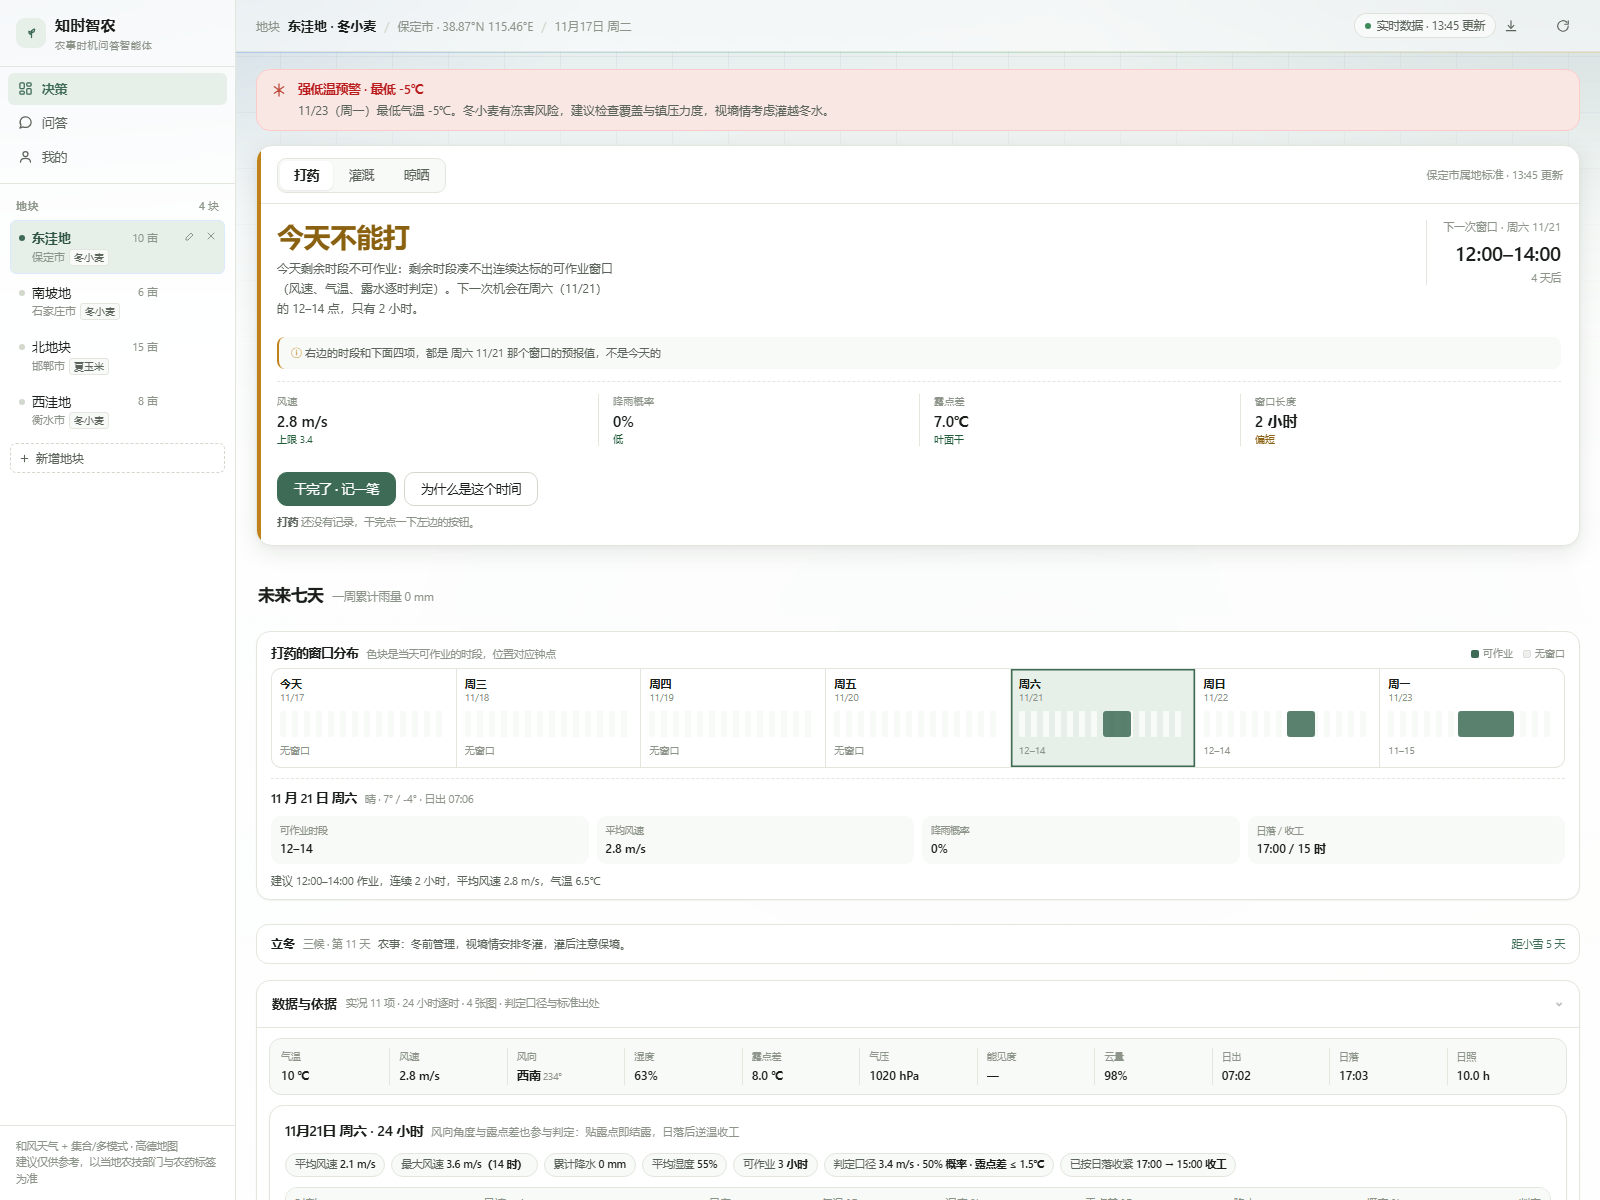
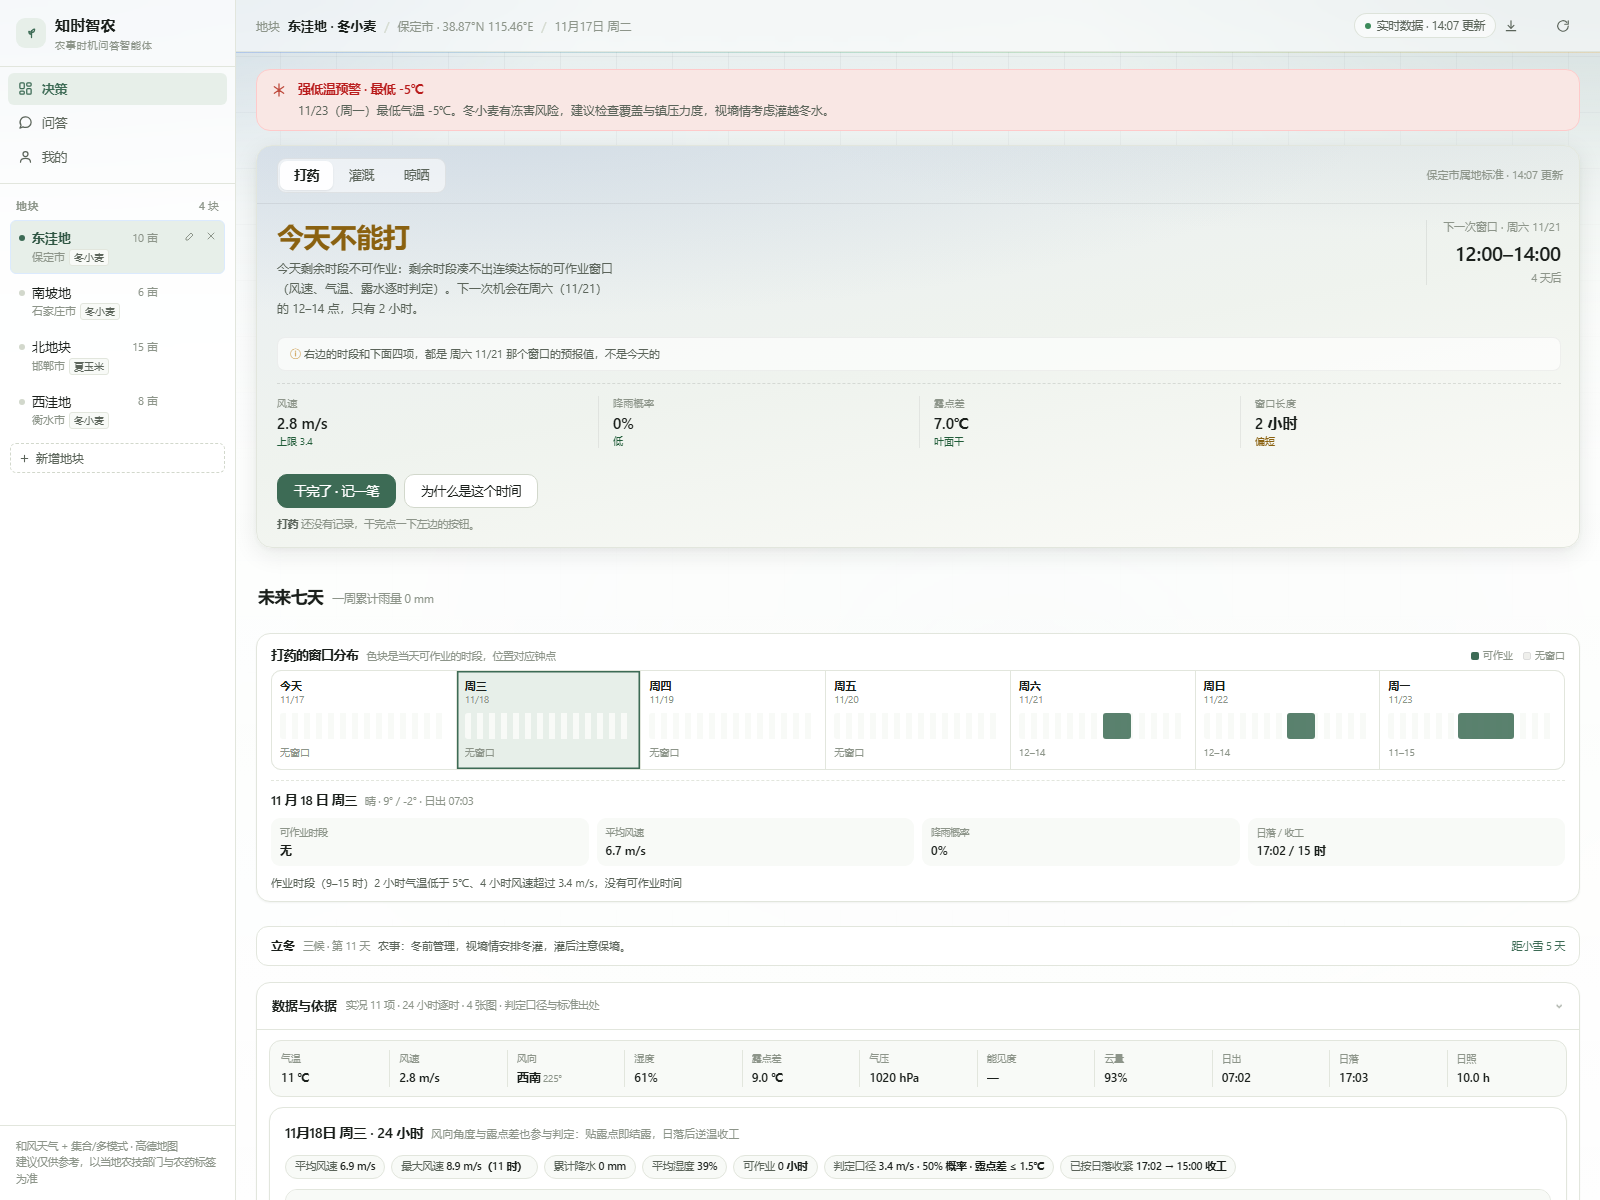
决策卡回归天气主题背景：晴/阴/雨/雪/雾/雷/风/夜各一套渐变，去掉左侧状态色条与模板感白卡

diff --git a/site/index.html b/site/index.html
@@ -2038,23 +2038,55 @@ body.wx-night .bg-veil{background:linear-gradient(180deg,
 .cbox{padding:14px 15px}
 
 /* ---- L1 决策卡 ---- */
+/* 决策卡：背景随天气变（与页面 bg-blobs 同一套色相语言），
+   结论状态只靠结论文字与指标判断色表达，不再用「左侧一根色条」的模板样式 */
 .decision{
-  position:relative;background:var(--surface-solid);border:1px solid var(--border);
+  position:relative;border:1px solid var(--border);
   border-radius:16px;box-shadow:var(--shadow-md);padding:0 0 14px;overflow:hidden;
+  background:linear-gradient(170deg,#e7edf2 0%,#f0f4ee 52%,#fcfcf9 100%);
 }
-.decision:before{content:"";position:absolute;left:0;top:0;bottom:0;width:4px;background:var(--brand)}
-.decision.st-warn:before{background:var(--warn)}
-.decision.st-bad:before{background:var(--danger)}
+.decision.wx-clear{background:
+  radial-gradient(120% 95% at 14% -12%, rgba(86,150,220,.30), transparent 56%),
+  radial-gradient(85% 65% at 88% -14%, rgba(245,190,110,.22), transparent 55%),
+  linear-gradient(170deg,#e9f2f9 0%,#f4f8f1 52%,#fefbf1 100%)}
+.decision.wx-cloud{background:
+  radial-gradient(120% 95% at 16% -12%, rgba(120,150,178,.24), transparent 58%),
+  radial-gradient(85% 65% at 84% -14%, rgba(150,170,180,.18), transparent 55%),
+  linear-gradient(170deg,#e9eef3 0%,#eff3ee 52%,#fbfbf7 100%)}
+.decision.wx-rain{background:
+  radial-gradient(120% 95% at 14% -12%, rgba(70,110,140,.26), transparent 58%),
+  radial-gradient(85% 65% at 86% -14%, rgba(96,128,140,.20), transparent 55%),
+  linear-gradient(170deg,#e4ecEE 0%,#ebf1ec 52%,#f8faf4 100%)}
+.decision.wx-snow{background:
+  radial-gradient(120% 95% at 12% -12%, rgba(160,190,220,.26), transparent 56%),
+  radial-gradient(85% 65% at 88% -14%, rgba(185,205,220,.20), transparent 55%),
+  linear-gradient(170deg,#edf3f8 0%,#f2f6f2 52%,#fbfaf5 100%)}
+.decision.wx-fog{background:
+  radial-gradient(120% 95% at 20% -12%, rgba(160,168,160,.22), transparent 58%),
+  radial-gradient(85% 65% at 80% -14%, rgba(175,180,170,.18), transparent 55%),
+  linear-gradient(170deg,#edefeb 0%,#f2f4ef 52%,#fafaf5 100%)}
+.decision.wx-storm{background:
+  radial-gradient(120% 95% at 16% -12%, rgba(78,92,130,.24), transparent 58%),
+  radial-gradient(85% 65% at 84% -14%, rgba(110,96,140,.18), transparent 55%),
+  linear-gradient(170deg,#e5e9f0 0%,#eceeed 52%,#f6f5f0 100%)}
+.decision.wx-wind{background:
+  radial-gradient(120% 95% at 14% -12%, rgba(64,145,120,.24), transparent 58%),
+  radial-gradient(85% 65% at 86% -14%, rgba(120,170,150,.18), transparent 55%),
+  linear-gradient(170deg,#e6f1ea 0%,#eef4ee 52%,#f9fbf6 100%)}
+.decision.wx-night{background:
+  radial-gradient(120% 95% at 14% -12%, rgba(60,84,120,.22), transparent 58%),
+  radial-gradient(85% 65% at 86% -14%, rgba(80,96,120,.16), transparent 55%),
+  linear-gradient(170deg,#e5eaf0 0%,#ebeeeb 52%,#f6f5f1 100%)}
 
 .d-head{display:flex;align-items:center;gap:10px;padding:12px 16px 10px 20px;
-  border-bottom:1px solid var(--border);flex-wrap:wrap}
-.d-tabs{display:flex;gap:2px;background:var(--surface-2);border:1px solid var(--border);
+  border-bottom:1px solid rgba(26,31,27,.07);flex-wrap:wrap}
+.d-tabs{display:flex;gap:2px;background:rgba(255,255,255,.55);border:1px solid rgba(26,31,27,.08);
   border-radius:9px;padding:2px}
 .d-tabs button{
   border:0;background:transparent;font:inherit;font-size:12.5px;color:var(--text-2);
   padding:5px 14px;border-radius:7px;cursor:pointer;transition:background .16s,color .16s;
 }
-.d-tabs button.on{background:var(--surface-solid);color:var(--text);font-weight:600;
+.d-tabs button.on{background:rgba(255,255,255,.92);color:var(--text);font-weight:600;
   box-shadow:0 1px 2px rgba(26,31,27,.08)}
 .d-meta{margin-left:auto;font-size:11px;color:var(--text-3);white-space:nowrap}
 
@@ -2066,7 +2098,7 @@ body.wx-night .bg-veil{background:linear-gradient(180deg,
 .decision.st-bad .d-word{color:#8C3025}
 .d-why{margin-top:6px;font-size:12px;line-height:1.65;color:var(--text-2);max-width:52ch}
 
-.d-when{flex:none;text-align:right;padding-left:16px;border-left:1px solid var(--border);min-width:132px}
+.d-when{flex:none;text-align:right;padding-left:16px;border-left:1px solid rgba(26,31,27,.08);min-width:132px}
 .d-day{display:block;font-size:10.5px;color:var(--text-3);letter-spacing:.04em}
 .d-time{display:block;font-size:20px;font-weight:600;color:var(--text);
   font-variant-numeric:tabular-nums;letter-spacing:-.01em;margin-top:2px}
@@ -2075,13 +2107,13 @@ body.wx-night .bg-veil{background:linear-gradient(180deg,
 /* 「今天不能打」时，下面四项数值属于未来窗口；这条说明必须看得见，
    否则用户会把未来预报当成今天的实况 */
 .d-from{margin:12px 18px 0 20px;padding:8px 12px;border-radius:8px;
-  background:var(--surface-2);border-left:2px solid var(--warn);
+  background:rgba(255,255,255,.62);border:1px solid rgba(26,31,27,.06);
   font-size:11px;color:var(--text-2);line-height:1.5}
 .d-from:before{content:"ⓘ ";color:var(--warn)}
 @media (max-width:640px){.d-from{margin:10px 14px 0 16px}}
 .d-metrics{display:grid;grid-template-columns:repeat(4,minmax(0,1fr));gap:0;
-  margin:12px 18px 0 20px;padding:12px 0;border-top:1px dashed var(--border)}
-.d-metric{padding:0 14px;border-left:1px solid var(--border);min-width:0}
+  margin:12px 18px 0 20px;padding:12px 0;border-top:1px dashed rgba(26,31,27,.12)}
+.d-metric{padding:0 14px;border-left:1px solid rgba(26,31,27,.07);min-width:0}
 .d-metric:first-child{padding-left:0;border-left:0}
 .d-metric span{display:block;font-size:10px;color:var(--text-3);letter-spacing:.03em;white-space:nowrap}
 .d-metric b{display:block;font-size:15px;font-weight:600;color:var(--text);margin-top:3px;

diff --git a/web/index.html b/web/index.html
@@ -2038,23 +2038,55 @@ body.wx-night .bg-veil{background:linear-gradient(180deg,
 .cbox{padding:14px 15px}
 
 /* ---- L1 决策卡 ---- */
+/* 决策卡：背景随天气变（与页面 bg-blobs 同一套色相语言），
+   结论状态只靠结论文字与指标判断色表达，不再用「左侧一根色条」的模板样式 */
 .decision{
-  position:relative;background:var(--surface-solid);border:1px solid var(--border);
+  position:relative;border:1px solid var(--border);
   border-radius:16px;box-shadow:var(--shadow-md);padding:0 0 14px;overflow:hidden;
+  background:linear-gradient(170deg,#e7edf2 0%,#f0f4ee 52%,#fcfcf9 100%);
 }
-.decision:before{content:"";position:absolute;left:0;top:0;bottom:0;width:4px;background:var(--brand)}
-.decision.st-warn:before{background:var(--warn)}
-.decision.st-bad:before{background:var(--danger)}
+.decision.wx-clear{background:
+  radial-gradient(120% 95% at 14% -12%, rgba(86,150,220,.30), transparent 56%),
+  radial-gradient(85% 65% at 88% -14%, rgba(245,190,110,.22), transparent 55%),
+  linear-gradient(170deg,#e9f2f9 0%,#f4f8f1 52%,#fefbf1 100%)}
+.decision.wx-cloud{background:
+  radial-gradient(120% 95% at 16% -12%, rgba(120,150,178,.24), transparent 58%),
+  radial-gradient(85% 65% at 84% -14%, rgba(150,170,180,.18), transparent 55%),
+  linear-gradient(170deg,#e9eef3 0%,#eff3ee 52%,#fbfbf7 100%)}
+.decision.wx-rain{background:
+  radial-gradient(120% 95% at 14% -12%, rgba(70,110,140,.26), transparent 58%),
+  radial-gradient(85% 65% at 86% -14%, rgba(96,128,140,.20), transparent 55%),
+  linear-gradient(170deg,#e4ecEE 0%,#ebf1ec 52%,#f8faf4 100%)}
+.decision.wx-snow{background:
+  radial-gradient(120% 95% at 12% -12%, rgba(160,190,220,.26), transparent 56%),
+  radial-gradient(85% 65% at 88% -14%, rgba(185,205,220,.20), transparent 55%),
+  linear-gradient(170deg,#edf3f8 0%,#f2f6f2 52%,#fbfaf5 100%)}
+.decision.wx-fog{background:
+  radial-gradient(120% 95% at 20% -12%, rgba(160,168,160,.22), transparent 58%),
+  radial-gradient(85% 65% at 80% -14%, rgba(175,180,170,.18), transparent 55%),
+  linear-gradient(170deg,#edefeb 0%,#f2f4ef 52%,#fafaf5 100%)}
+.decision.wx-storm{background:
+  radial-gradient(120% 95% at 16% -12%, rgba(78,92,130,.24), transparent 58%),
+  radial-gradient(85% 65% at 84% -14%, rgba(110,96,140,.18), transparent 55%),
+  linear-gradient(170deg,#e5e9f0 0%,#eceeed 52%,#f6f5f0 100%)}
+.decision.wx-wind{background:
+  radial-gradient(120% 95% at 14% -12%, rgba(64,145,120,.24), transparent 58%),
+  radial-gradient(85% 65% at 86% -14%, rgba(120,170,150,.18), transparent 55%),
+  linear-gradient(170deg,#e6f1ea 0%,#eef4ee 52%,#f9fbf6 100%)}
+.decision.wx-night{background:
+  radial-gradient(120% 95% at 14% -12%, rgba(60,84,120,.22), transparent 58%),
+  radial-gradient(85% 65% at 86% -14%, rgba(80,96,120,.16), transparent 55%),
+  linear-gradient(170deg,#e5eaf0 0%,#ebeeeb 52%,#f6f5f1 100%)}
 
 .d-head{display:flex;align-items:center;gap:10px;padding:12px 16px 10px 20px;
-  border-bottom:1px solid var(--border);flex-wrap:wrap}
-.d-tabs{display:flex;gap:2px;background:var(--surface-2);border:1px solid var(--border);
+  border-bottom:1px solid rgba(26,31,27,.07);flex-wrap:wrap}
+.d-tabs{display:flex;gap:2px;background:rgba(255,255,255,.55);border:1px solid rgba(26,31,27,.08);
   border-radius:9px;padding:2px}
 .d-tabs button{
   border:0;background:transparent;font:inherit;font-size:12.5px;color:var(--text-2);
   padding:5px 14px;border-radius:7px;cursor:pointer;transition:background .16s,color .16s;
 }
-.d-tabs button.on{background:var(--surface-solid);color:var(--text);font-weight:600;
+.d-tabs button.on{background:rgba(255,255,255,.92);color:var(--text);font-weight:600;
   box-shadow:0 1px 2px rgba(26,31,27,.08)}
 .d-meta{margin-left:auto;font-size:11px;color:var(--text-3);white-space:nowrap}
 
@@ -2066,7 +2098,7 @@ body.wx-night .bg-veil{background:linear-gradient(180deg,
 .decision.st-bad .d-word{color:#8C3025}
 .d-why{margin-top:6px;font-size:12px;line-height:1.65;color:var(--text-2);max-width:52ch}
 
-.d-when{flex:none;text-align:right;padding-left:16px;border-left:1px solid var(--border);min-width:132px}
+.d-when{flex:none;text-align:right;padding-left:16px;border-left:1px solid rgba(26,31,27,.08);min-width:132px}
 .d-day{display:block;font-size:10.5px;color:var(--text-3);letter-spacing:.04em}
 .d-time{display:block;font-size:20px;font-weight:600;color:var(--text);
   font-variant-numeric:tabular-nums;letter-spacing:-.01em;margin-top:2px}
@@ -2075,13 +2107,13 @@ body.wx-night .bg-veil{background:linear-gradient(180deg,
 /* 「今天不能打」时，下面四项数值属于未来窗口；这条说明必须看得见，
    否则用户会把未来预报当成今天的实况 */
 .d-from{margin:12px 18px 0 20px;padding:8px 12px;border-radius:8px;
-  background:var(--surface-2);border-left:2px solid var(--warn);
+  background:rgba(255,255,255,.62);border:1px solid rgba(26,31,27,.06);
   font-size:11px;color:var(--text-2);line-height:1.5}
 .d-from:before{content:"ⓘ ";color:var(--warn)}
 @media (max-width:640px){.d-from{margin:10px 14px 0 16px}}
 .d-metrics{display:grid;grid-template-columns:repeat(4,minmax(0,1fr));gap:0;
-  margin:12px 18px 0 20px;padding:12px 0;border-top:1px dashed var(--border)}
-.d-metric{padding:0 14px;border-left:1px solid var(--border);min-width:0}
+  margin:12px 18px 0 20px;padding:12px 0;border-top:1px dashed rgba(26,31,27,.12)}
+.d-metric{padding:0 14px;border-left:1px solid rgba(26,31,27,.07);min-width:0}
 .d-metric:first-child{padding-left:0;border-left:0}
 .d-metric span{display:block;font-size:10px;color:var(--text-3);letter-spacing:.03em;white-space:nowrap}
 .d-metric b{display:block;font-size:15px;font-weight:600;color:var(--text);margin-top:3px;

diff --git a/site/app.js b/site/app.js
@@ -879,7 +879,7 @@
 
 
   /* ---- 天气主题：背景随实况/预报变化，但正文始终深色可读 ---- */
-  function applyWeatherTheme(code) {
+  function applyWeatherTheme(code, windMax) {
     var h = new Date().getHours();
     var night = h < 6 || h >= 18;
     var cls = 'cloud';
@@ -890,15 +890,25 @@
     else if (code >= 71 && code <= 77) cls = 'snow';
     else if (code >= 80 && code <= 82) cls = 'rain';
     else if (code >= 95) cls = 'storm';
+    /* 大风本身就是一种「天」：风天单列一套背景（阈值跟属地标准走），
+       雷暴 / 暴雪保持自己的主题不被覆盖 */
+    var windLine = (RULES.spray.wind_max || 3.4) * 1.6;
+    if (windMax != null && windMax >= windLine && cls !== 'storm' && cls !== 'snow') cls = 'wind';
     document.body.className = document.body.className.replace(/\bwx-[a-z]+\b/g, '').trim();
     document.body.classList.add('wx-' + cls);
     if (night) document.body.classList.add('wx-night');
     var MAP = {
       clear: '#dceaf8', cloud: '#e4ebf1', rain: '#dfe8ea', snow: '#e8f0f7',
-      fog: '#e9ece7', storm: '#dfe4ee', night: '#dfe6ee'
+      fog: '#e9ece7', storm: '#dfe4ee', night: '#dfe6ee', wind: '#e0ede6'
     };
     var meta = document.querySelector('meta[name="theme-color"]');
     if (meta) meta.setAttribute('content', MAP[night ? 'night' : cls] || '#e6efe9');
+    /* 决策卡与页面同一天气语言；状态类 st-* 由 renderDecision 维护，这里只换 wx- */
+    var dec = $('decision');
+    if (dec) {
+      dec.className = dec.className.replace(/\bwx-[a-z]+\b/g, '').trim() +
+        ' wx-' + (night ? 'night' : cls);
+    }
   }
 
   /* =========================================================
@@ -1077,7 +1087,10 @@
     var dec = task === 'spray' ? sprayDecision(result)
       : (task === 'irrigation' ? irrDecision(result) : harvDecision(result));
 
-    box.className = 'decision st-' + (dec.status === 'ok' ? 'ok' : (dec.status === 'warn' ? 'warn' : 'bad'));
+    /* 重写状态类时保留天气类（applyWeatherTheme 写入的 wx-*），否则换地块瞬间背景会闪回默认 */
+    var wxKeep = (box.className.match(/\bwx-[a-z]+\b/) || [''])[0];
+    box.className = 'decision st-' + (dec.status === 'ok' ? 'ok' : (dec.status === 'warn' ? 'warn' : 'bad')) +
+      (wxKeep ? ' ' + wxKeep : '');
 
     if ($('dWord')) $('dWord').textContent = dec.word;
     if ($('dWhy')) $('dWhy').textContent = dec.why;
@@ -1593,7 +1606,7 @@
 
       $('tbSub').textContent = placeText(plot) +
         ' · ' + plot.lat.toFixed(2) + '°N ' + plot.lon.toFixed(2) + '°E';
-      applyWeatherTheme(result.days[0].weather_code);
+      applyWeatherTheme(result.days[0].weather_code, result.days[0].windMax);
       state.task = state.task || 'spray';
       renderDecision(result, state.task);
       renderWeek(result, state.task);

diff --git a/web/app.js b/web/app.js
@@ -879,7 +879,7 @@
 
 
   /* ---- 天气主题：背景随实况/预报变化，但正文始终深色可读 ---- */
-  function applyWeatherTheme(code) {
+  function applyWeatherTheme(code, windMax) {
     var h = new Date().getHours();
     var night = h < 6 || h >= 18;
     var cls = 'cloud';
@@ -890,15 +890,25 @@
     else if (code >= 71 && code <= 77) cls = 'snow';
     else if (code >= 80 && code <= 82) cls = 'rain';
     else if (code >= 95) cls = 'storm';
+    /* 大风本身就是一种「天」：风天单列一套背景（阈值跟属地标准走），
+       雷暴 / 暴雪保持自己的主题不被覆盖 */
+    var windLine = (RULES.spray.wind_max || 3.4) * 1.6;
+    if (windMax != null && windMax >= windLine && cls !== 'storm' && cls !== 'snow') cls = 'wind';
     document.body.className = document.body.className.replace(/\bwx-[a-z]+\b/g, '').trim();
     document.body.classList.add('wx-' + cls);
     if (night) document.body.classList.add('wx-night');
     var MAP = {
       clear: '#dceaf8', cloud: '#e4ebf1', rain: '#dfe8ea', snow: '#e8f0f7',
-      fog: '#e9ece7', storm: '#dfe4ee', night: '#dfe6ee'
+      fog: '#e9ece7', storm: '#dfe4ee', night: '#dfe6ee', wind: '#e0ede6'
     };
     var meta = document.querySelector('meta[name="theme-color"]');
     if (meta) meta.setAttribute('content', MAP[night ? 'night' : cls] || '#e6efe9');
+    /* 决策卡与页面同一天气语言；状态类 st-* 由 renderDecision 维护，这里只换 wx- */
+    var dec = $('decision');
+    if (dec) {
+      dec.className = dec.className.replace(/\bwx-[a-z]+\b/g, '').trim() +
+        ' wx-' + (night ? 'night' : cls);
+    }
   }
 
   /* =========================================================
@@ -1077,7 +1087,10 @@
     var dec = task === 'spray' ? sprayDecision(result)
       : (task === 'irrigation' ? irrDecision(result) : harvDecision(result));
 
-    box.className = 'decision st-' + (dec.status === 'ok' ? 'ok' : (dec.status === 'warn' ? 'warn' : 'bad'));
+    /* 重写状态类时保留天气类（applyWeatherTheme 写入的 wx-*），否则换地块瞬间背景会闪回默认 */
+    var wxKeep = (box.className.match(/\bwx-[a-z]+\b/) || [''])[0];
+    box.className = 'decision st-' + (dec.status === 'ok' ? 'ok' : (dec.status === 'warn' ? 'warn' : 'bad')) +
+      (wxKeep ? ' ' + wxKeep : '');
 
     if ($('dWord')) $('dWord').textContent = dec.word;
     if ($('dWhy')) $('dWhy').textContent = dec.why;
@@ -1593,7 +1606,7 @@
 
       $('tbSub').textContent = placeText(plot) +
         ' · ' + plot.lat.toFixed(2) + '°N ' + plot.lon.toFixed(2) + '°E';
-      applyWeatherTheme(result.days[0].weather_code);
+      applyWeatherTheme(result.days[0].weather_code, result.days[0].windMax);
       state.task = state.task || 'spray';
       renderDecision(result, state.task);
       renderWeek(result, state.task);

diff --git a/site/sw.js b/site/sw.js
@@ -18,7 +18,7 @@
 
 /* build-site.mjs 会把 __BUILD__ 替换成构建时间戳；
    开发时（web/ 目录直接打开）保持 dev，不影响使用 */
-const BUILD_ID = '20261117055051';
+const BUILD_ID = '20261117060910';
 const VERSION = /^__BUILD__$/.test(BUILD_ID) ? 'dev' : BUILD_ID;
 
 const CACHE = 'zhishi-zhinong-' + VERSION;
